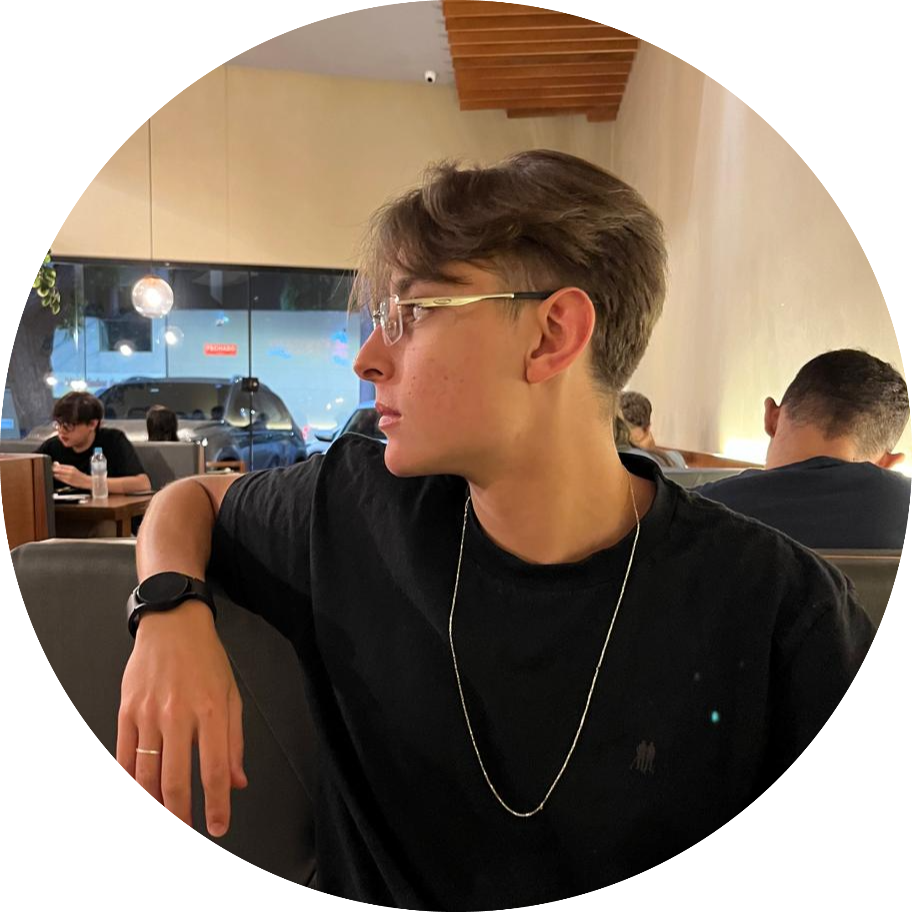
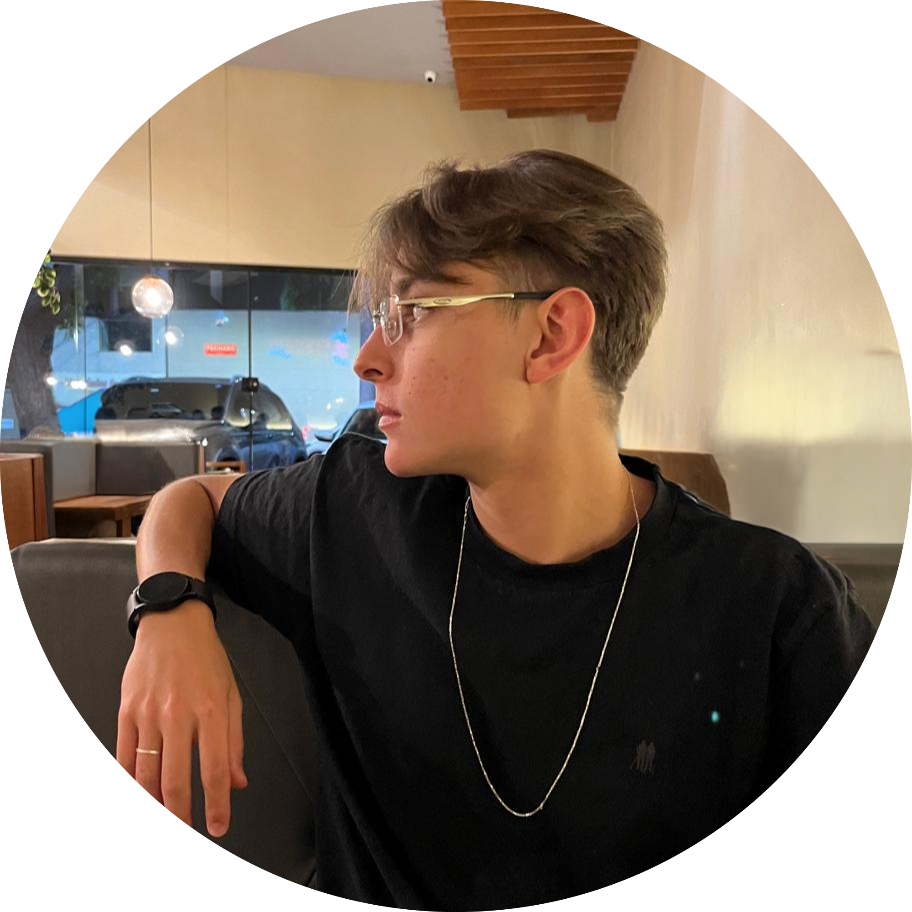
Add files via upload
Alguns ajustes para a versão mobile

Changed region(s): [[0.6447, 0.3684, 1.0, 0.614], [0.0307, 0.4298, 0.2149, 0.5833]]

diff --git a/index.html b/index.html
@@ -55,7 +55,7 @@
         <div id="sobre" class="sobre efeito">
             <div class="about-text">
                 <h2>⚡About Me</h2>
-                <p>Ei! Meu nome é Pedro Henrique Galvão tenho 21 anos, sou próximo do computador desde muito jovem e sou
+                <p>Ei! Meu nome é Pedro Henrique Galvão tenho 21 anos, sou próximo do computador desde muito <a class="verde egg" onclick="mudarImagem()">novo</a> e sou
                     apaixonado por ele desde então.
                     <br><br>
                     Sou técnico em <a href="https://www.dept.cefetmg.br/informatica-para-internet/" class="verde"
@@ -70,7 +70,7 @@
                 </p>
             </div>
             <div class="container-imagem">
-                <img src="./img/foto.png" class="foto-circular efeito">
+                <img id="minha-foto" src="./img/foto.png" class="foto-circular efeito">
             </div>
         </div>
 
@@ -201,6 +201,10 @@
 </body>
 
 <script>
+    function mudarImagem() {
+    document.getElementById("minha-foto").src = "./img/foto2.png"; // Muda para a nova foto
+  }
+
     function isElementInViewport(el) {
         const rect = el.getBoundingClientRect();
 

diff --git a/styles/projects.css b/styles/projects.css
@@ -86,7 +86,7 @@
 
 .projects p {
     margin-top: 10px;
-    font-size: 20px;
+    font-size: 1.25rem;
     color: var(--cinza);
 }
 
@@ -138,4 +138,46 @@
 .redirect {
     font-size: 20px;
     width: 20px;
+}
+
+@media screen and (max-width: 767px) { 
+    .projects-content {
+        padding: 0 1rem;
+        margin: 0;
+        display: flex;
+        flex-direction: column;
+    }
+
+    .project img {
+        width: 90vw;
+    }
+
+    .card-esq {
+        width: 100%;
+        padding: 0px;
+    }
+
+    .projects p {
+        font-size: 1rem;
+        padding-bottom: 70px;
+    }
+
+    .card-esq .project {
+        border-radius: 10px;
+        border: 0.5px solid var(--borda-mobile);
+        width: 100%;
+        margin: 0;
+        margin-bottom: 70px;
+    }
+
+    .card-dir .project {
+        border-radius: 10px;
+        border: 0.5px solid var(--borda-mobile);
+        width: 100%;
+        margin: 0;
+    }
+
+    .card-dir .project:nth-of-type(1) {
+        margin-bottom: 70px;
+    }
 }

diff --git a/styles/about.css b/styles/about.css
@@ -44,6 +44,33 @@
     height: auto; 
 }
 
+.egg {
+    position: relative;
+    cursor: pointer;
+  }
+
+.egg::after {
+    content: "Clique para me ver alguns bons anos atras";
+    position: absolute;
+    bottom: 125%; /* Ajusta a posição acima do link */
+    left: 50%;
+    transform: translateX(-50%);
+    background-color: var(--preto-borda);
+    color: var(--verde);
+    padding: 5px;
+    border-radius: 5px;
+    white-space: nowrap;
+    font-size: 12px;
+    visibility: hidden;
+    opacity: 0;
+    transition: opacity 0.3s;
+  }
+
+.verde:hover::after {
+    visibility: visible;
+    opacity: 1;
+}
+
 @media screen and (max-width: 767px) {
     .sobre {
         padding: 6rem 1rem;

diff --git a/styles/end.css b/styles/end.css
@@ -7,14 +7,14 @@
 .end h1 {
     padding-top: 100px;
     color: white;
-    font-size: 48px;
+    font-size: 2.25rem;
     font-weight: 700;
 }
 
 .end p:nth-of-type(1){
     line-height: 24px;
     padding-top: 50px;
-    font-size: 16px;
+    font-size: 1rem;
     text-align: center;
     color: var(--cinza);
 }
@@ -22,7 +22,14 @@
 .end p:nth-of-type(2){
     line-height: 24px;
     padding: 170px 0 40px 0;
-    font-size: 14px;
+    font-size: 0.8rem;
     text-align: center;
     color: white;
+}
+
+@media only screen and (max-width: 770px) { 
+    .end p:nth-of-type(1) {
+        margin-top: 3rem;
+        padding: 0 10px;
+    }
 }

diff --git a/styles/style.css b/styles/style.css
@@ -12,6 +12,7 @@
     --cinza-chumbo: #1e1f29;
     --verde: #3CCF91;
     --preto-borda: #111111;
+    --borda-mobile: rgba(255, 255, 255, 0.16);
     --preto-opacity: rgba(0, 0, 0, 0.5);
     --subtitulos: "Ubuntu", sans-serif;
 }
